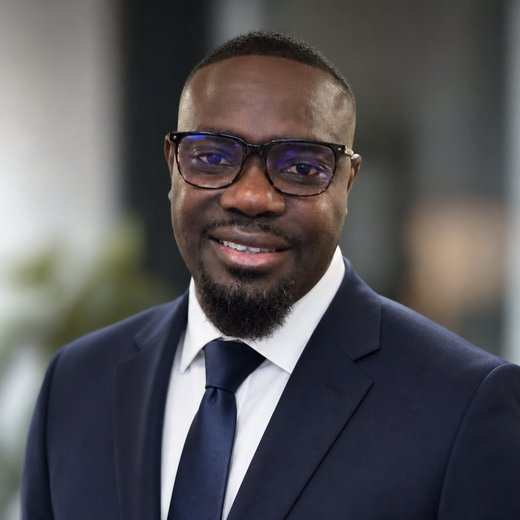
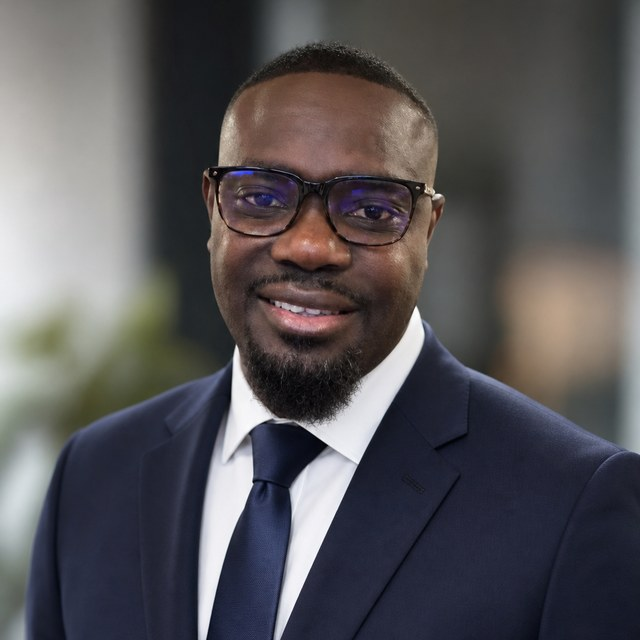
Founder section: remove headline + sharper CEO photo (#7)
Replace founder headline with 'The expertise behind every automation' and regenerate the CEO photo at full native resolution to fix retina blur.

diff --git a/index.html b/index.html
@@ -565,12 +565,12 @@
   <div class="container">
     <div class="ceo">
       <div class="ceo-photo rv">
-        <img src="/public/ceo-rapheal.jpg" alt="Rapheal John, Founder &amp; CEO of MyFlowMind" width="820" height="1093" />
+        <img src="/public/ceo-rapheal.jpg" alt="Rapheal John, Founder &amp; CEO of MyFlowMind" width="1056" height="1408" />
         <div class="ceo-badge"><span class="dot"></span><div><b>Rapheal John</b><span>Founder &amp; CEO</span></div></div>
       </div>
       <div class="ceo-content rv d1">
         <div class="s-label">Meet the Founder</div>
-        <h2>Built by someone who's been in the trenches</h2>
+        <h2>The expertise behind every automation</h2>
         <p class="lead">Hi, I'm Rapheal John — Founder &amp; CEO of MyFlowMind, an AI automation studio based in Des Moines, Iowa.</p>
         <p>With a background spanning <strong style="color:var(--navy)">cybersecurity, systems integration, and applied AI</strong>, I started MyFlowMind after watching talented teams lose thousands of hours a year to manual, repetitive work. I knew there was a better way — and I set out to build it.</p>
         <p>Today I personally oversee every client engagement to make sure the automations we deliver are secure, scalable, and actually used. Every template, workflow, and prompt in our store comes straight from real client projects — battle-tested, refined, and built for non-technical business owners.</p>

diff --git a/about.html b/about.html
@@ -208,7 +208,7 @@
             <img
               src="/public/ceo-rapheal.jpg"
               alt="Rapheal John — Founder &amp; CEO of MyFlowMind"
-              width="820" height="1093"
+              width="1056" height="1408"
               style="width: 340px; max-width: 100%; border-radius: 26px; border: 1px solid var(--border); box-shadow: var(--sh-lg);"
             />
           </div>
